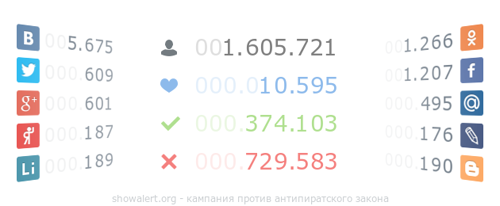
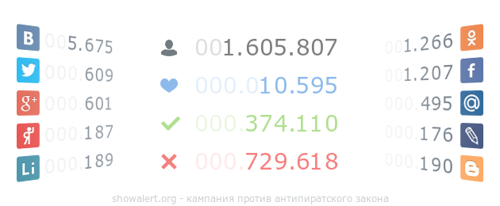
some updates

Changed region(s): [[0.57, 0.1748, 0.69, 0.2913], [0.57, 0.7282, 0.69, 0.8447], [0.6, 0.5534, 0.69, 0.6408]]

diff --git a/votes.js b/votes.js
@@ -1,1 +1,1 @@
-window.lk.votes(23852)
+window.lk.votes(23859)
